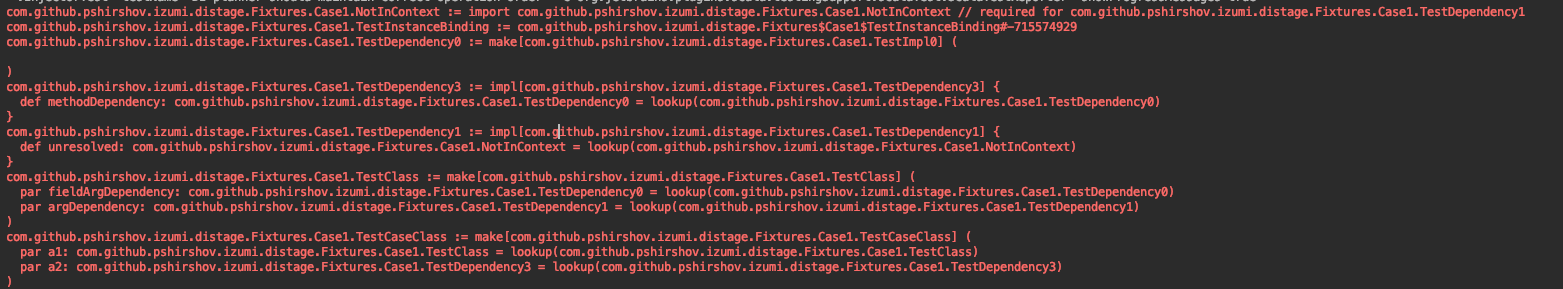
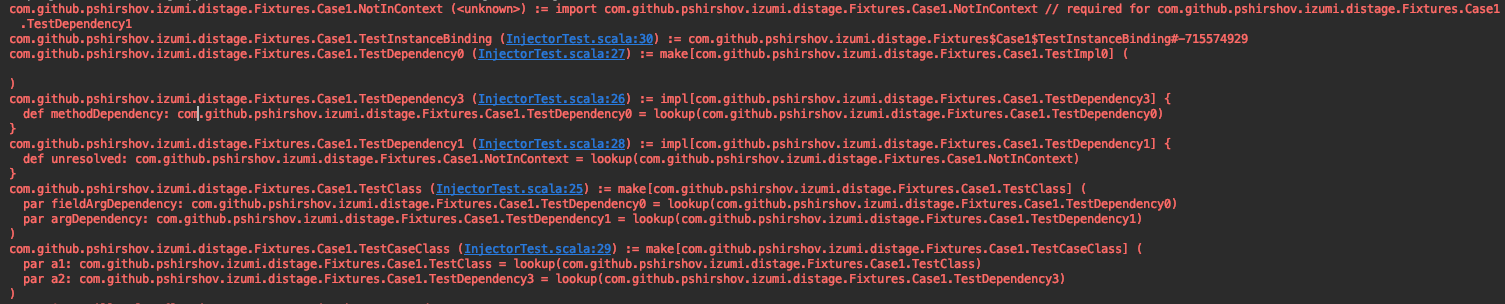
Print file:line info in plan .toString and on failure

diff --git a/doc/paradox/distage/00_distage.md b/doc/paradox/distage/00_distage.md
@@ -395,7 +395,8 @@ Plugins also allow a program to dynamically extend itself by adding new Plugin c
 
 ### Debugging, Introspection, Diagnostics and Hooks
 
-You can print a `plan` to get detailed info on what will happen during instantiation:
+You can print a `plan` to get detailed info on what will happen during instantiation. The printout includes file:line info 
+so your IDE can show you where the binding was defined! 
 
 ```scala
 System.err.println(plan: OrderedPlan)
